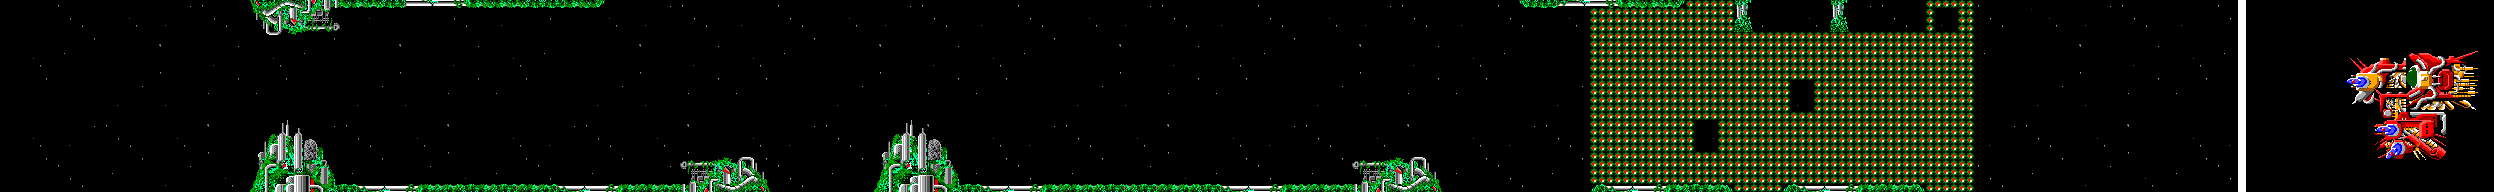
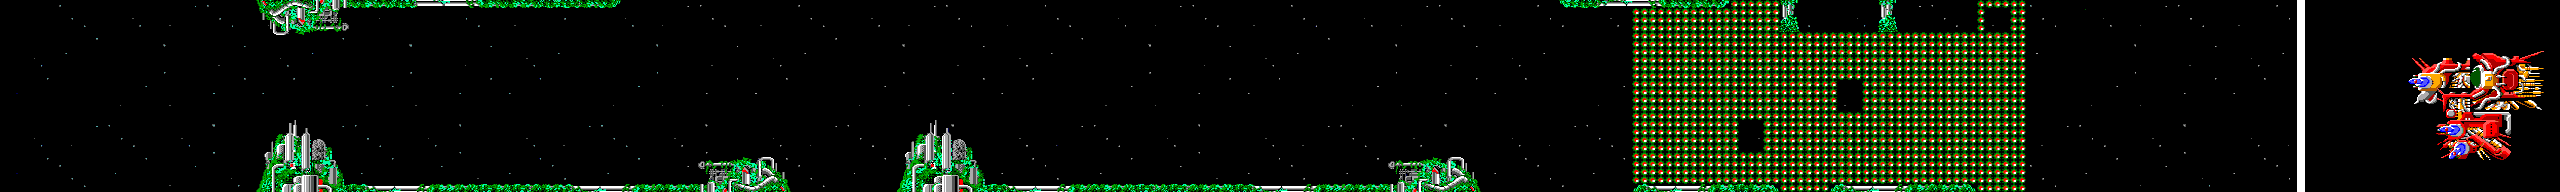
I have scaled the background images, changed the screen size and improved MapScreen

diff --git a/2DGame/02-Bubble/02-Bubble/MapScene.cpp b/2DGame/02-Bubble/02-Bubble/MapScene.cpp
@@ -31,7 +31,7 @@ MapScene::~MapScene()
 
 void MapScene::init()
 {
-	initlevel(2);
+	initlevel(1);
 }
 
 void MapScene::initlevel(int level)
@@ -47,13 +47,13 @@ void MapScene::initlevel(int level)
 
 	glm::vec2 geom[2] = { glm::vec2(0.f, 0.f), glm::vec2(CAMERA_WIDTH, 192) };				//ALERTA!!! AIXO DIU QUE TANT GRAN SERA EL QUAD
 	glm::vec2 texCoords[2] = { glm::vec2(0.f, 0.f), glm::vec2(1.f, 1.f) };					//COORDENADES DE LA TEXTURA
-	texCoords[0] = glm::vec2(0.f, 0.f); texCoords[1] = glm::vec2(64/256.f, 1.f);			//dins de la imatge, agafa un quadrat definit pels punts de texCoords
+	texCoords[0] = glm::vec2(0.f, 0.f); texCoords[1] = glm::vec2(512/3072.f, 1.f);			//dins de la imatge, agafa un quadrat definit pels punts de texCoords
 	// fer divisions de 2^x, no decimals
 	texQuad[0] = TexturedQuad::createTexturedQuad(geom, texCoords, texProgram);				//guarda el quadrat
 
 	string lvl = "images/level0" + to_string(level) + ".png";
 
-	texs[0].loadFromFile(lvl, TEXTURE_PIXEL_FORMAT_RGB);					//carrega la imatge !!ALERTA!! aixo son 24 bits i jo tinc 8
+	texs[0].loadFromFile(lvl, TEXTURE_PIXEL_FORMAT_RGB);					//les imatges son profunditat 8bits menys una que es 32bits
 	projection = glm::ortho(0.f, float(SCREEN_WIDTH-1), float(SCREEN_HEIGHT-1), 0.f);
 	currentTime = 0.0f;
 }
@@ -74,11 +74,10 @@ void MapScene::render()
 	modelview = glm::mat4(1.0f);
 	texProgram.setUniformMatrix4f("modelview", modelview);
 	texProgram.setUniform2f("texCoordDispl", 0.f, 0.f);
-	//map->render();
-	//for (int i = 0; i < CAMERA_WIDTH; i = i + 128) {
+	
 	modelview = glm::translate(glm::mat4(1.0f), glm::vec3(0.f, 0.f, 0.f));
 	texProgram.setUniformMatrix4f("modelview", modelview);
 	texQuad[0]->render(texs[0]);
-	//}
+	
 	player->render();
 }

diff --git a/2DGame/02-Bubble/02-Bubble/main.cpp b/2DGame/02-Bubble/02-Bubble/main.cpp
@@ -86,7 +86,7 @@ int main(int argc, char **argv)
 	glutInit(&argc, argv);
 	glutInitDisplayMode(GLUT_RGBA | GLUT_DOUBLE | GLUT_DEPTH);
 	glutInitWindowPosition(100, 100);
-	glutInitWindowSize(SCREEN_WIDTH, 2*SCREEN_HEIGHT); //aqui es on es fan les escales
+	glutInitWindowSize(2*SCREEN_WIDTH, 2*SCREEN_HEIGHT); //aqui es on es fan les escales
 	//mantenir les pantalles del joc
 
 	glutCreateWindow(argv[0]);

diff --git a/2DGame/02-Bubble/02-Bubble/Game.h b/2DGame/02-Bubble/02-Bubble/Game.h
@@ -6,7 +6,8 @@
 #include "MapScene.h"
 
 
-#define SCREEN_WIDTH 640
+//this are the original screen sizes of the game
+#define SCREEN_WIDTH 256 
 #define SCREEN_HEIGHT 192
 
 
